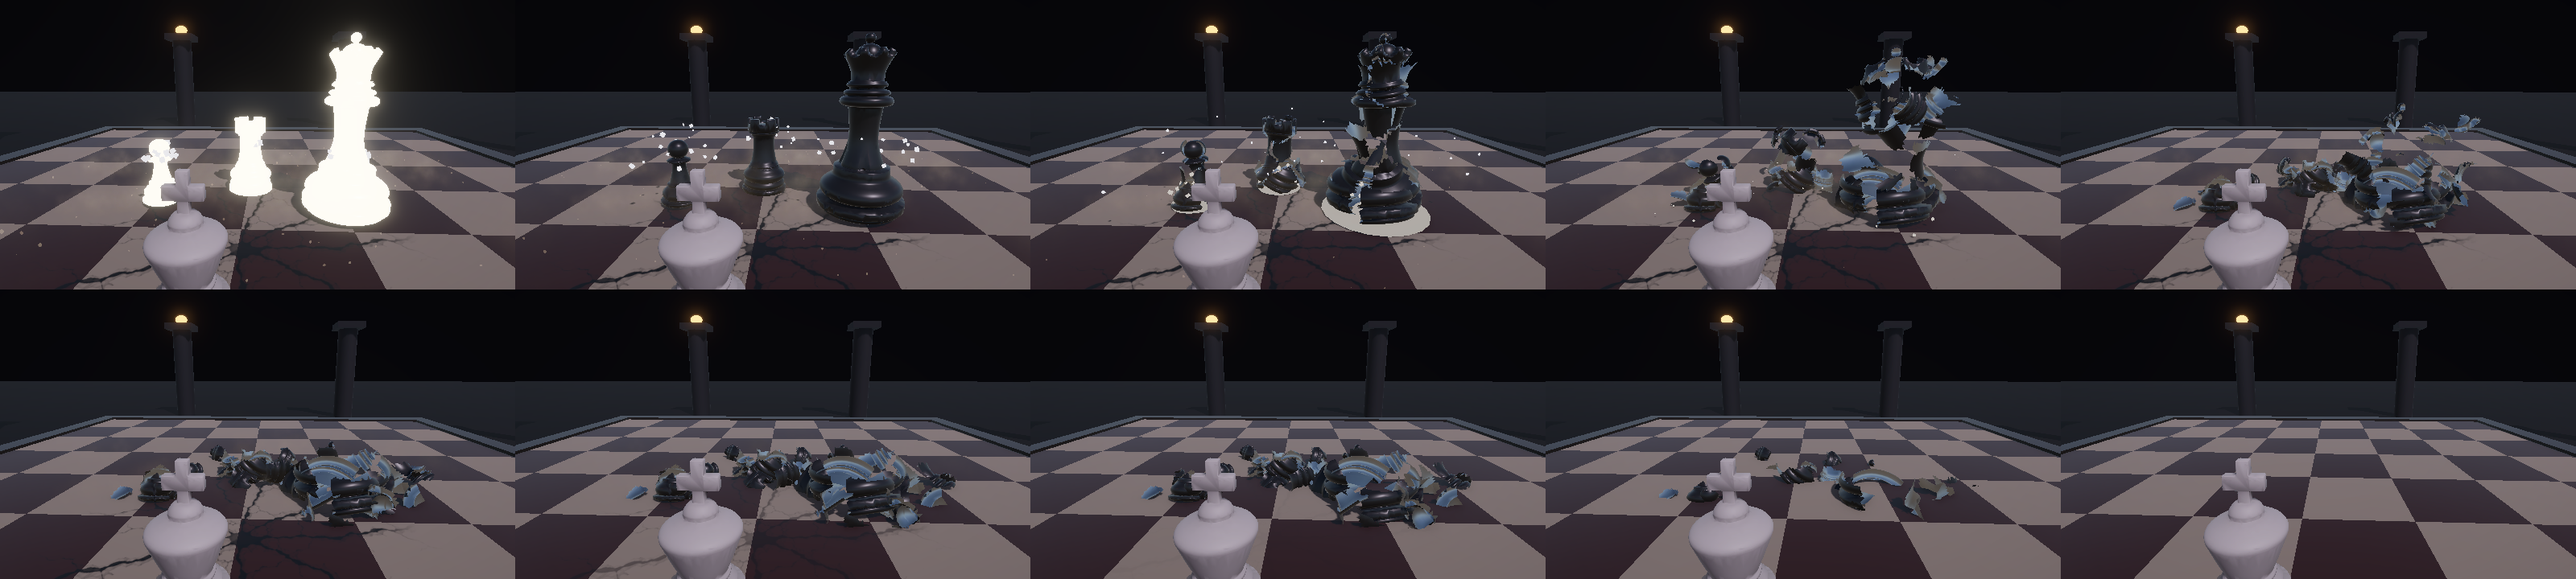
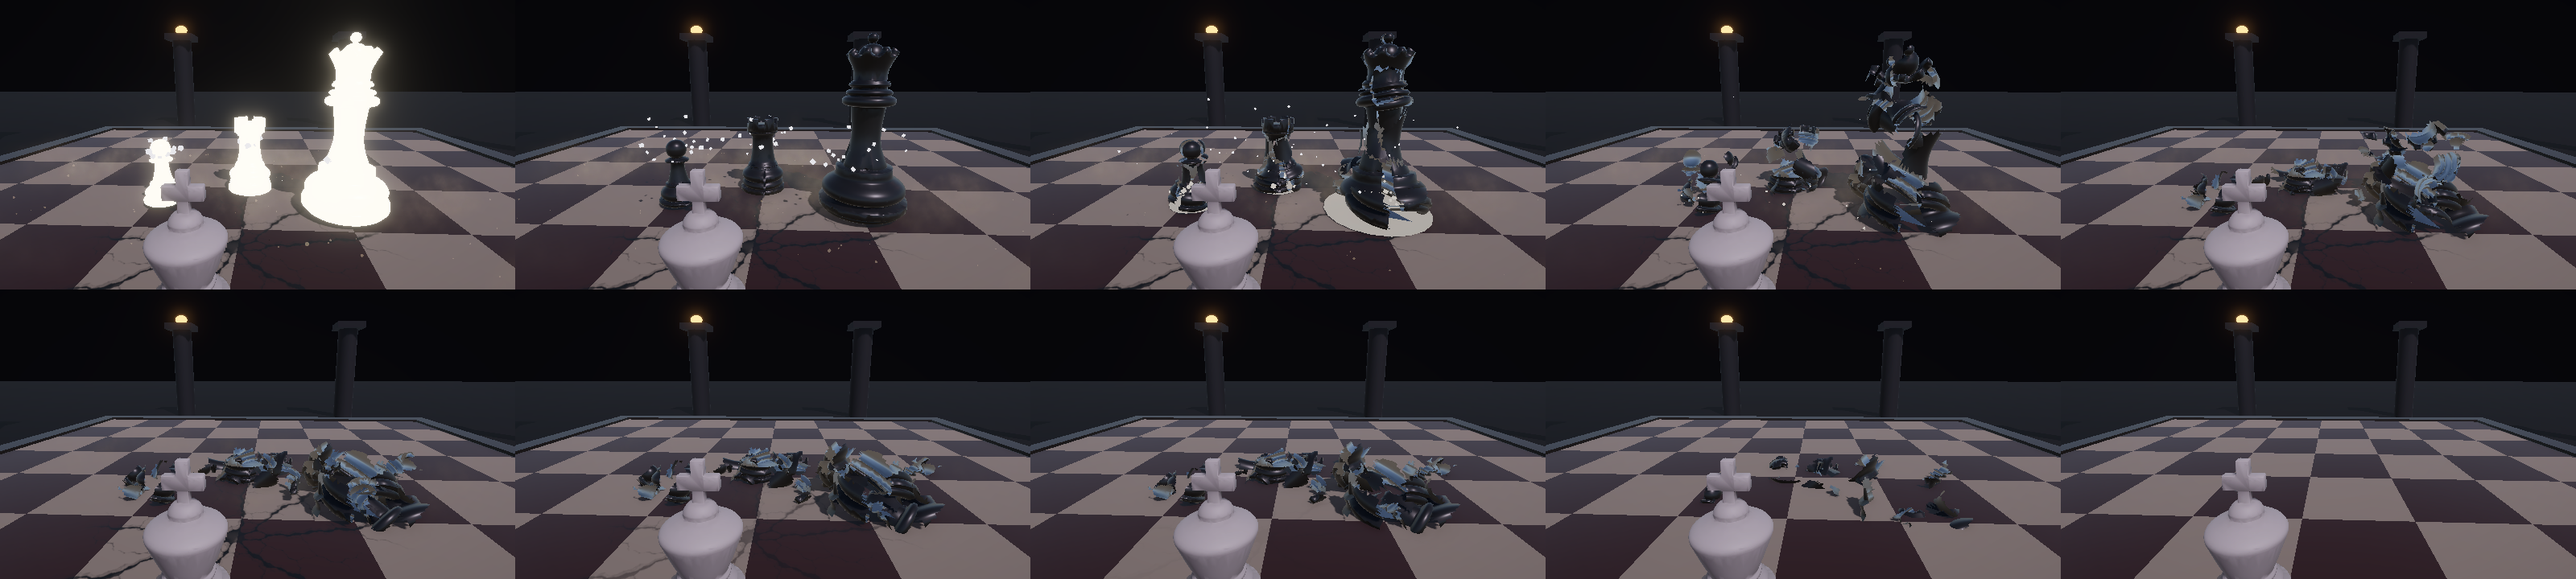
Precise auto-aim, heavy launcher, roll charges under the King
- Auto-aim faces the hit pieces squarely (centred score, player aim only
  a faint tie-break) so 1v1 attacks look straight at the enemy
- Meteor Stomp (RMB) force-launches non-boss pieces and keeps them down
  longer after landing; no ground range marker on hit 4 / heavy
- Royal Throw spins in a random direction each time
- Vulnerable indicator white
- HUD: roll diamonds float under the King; HP/stamina/flasks ~25% larger

diff --git a/Assets/Scripts/Core/Hud.cs b/Assets/Scripts/Core/Hud.cs
@@ -6,7 +6,7 @@ namespace KingLastPiece
     public class Hud : MonoBehaviour
     {
         GUIStyle big, mid, small, label;
-        float hpTrail = 100f, bossTrail = 1f;
+        float hpTrail = 100f, bossTrail = 1f, rollAlpha = 1f;
         float scale;
 
         static readonly Color Gold = new Color(0.95f, 0.78f, 0.35f);
@@ -58,6 +58,7 @@ namespace KingLastPiece
             }
 
             DrawPlayerBars(g.Player);
+            DrawRollCharges(g);
             DrawEnemyBars(g);
             DrawBossBar(g);
             DrawLockMarker(g);
@@ -76,26 +77,27 @@ namespace KingLastPiece
 
         void DrawPlayerBars(PlayerController p)
         {
+            float u = scale * 1.25f;  // a touch larger than the base HUD scale so it reads mid-fight
             float x = 32 * scale, y = 28 * scale;
-            float panelW = 520 * scale, panelH = 150 * scale;
+            float panelW = 500 * u, panelH = 118 * u;
 
             // Backing plate with a gold hairline, and a chess-tile emblem with the King's crown.
             Fill(new Rect(x - 12 * scale, y - 12 * scale, panelW, panelH), new Color(0f, 0f, 0f, 0.45f));
             Fill(new Rect(x - 12 * scale, y - 12 * scale, panelW, 2 * scale), new Color(Gold.r, Gold.g, Gold.b, 0.6f));
-            float em = 66 * scale;
+            float em = 66 * u;
             DrawEmblem(new Rect(x, y, em, em));
 
-            float bx = x + em + 14 * scale;
+            float bx = x + em + 14 * u;
 
             // Health.
-            float w = 400 * scale, h = 20 * scale;
-            Gauge(new Rect(bx, y + 2 * scale, w, h), p.Health / p.MaxHealth, hpTrail / p.MaxHealth,
+            float w = 380 * u, h = 20 * u;
+            Gauge(new Rect(bx, y + 2 * u, w, h), p.Health / p.MaxHealth, hpTrail / p.MaxHealth,
                 new Color(0.62f, 0.07f, 0.06f), new Color(0.95f, 0.3f, 0.22f));
-            SmallText(new Rect(bx + 8 * scale, y + 2 * scale, w - 16 * scale, h), $"{Mathf.CeilToInt(p.Health)} / {Mathf.RoundToInt(p.MaxHealth)}",
-                TextAnchor.MiddleRight);
+            SmallText(new Rect(bx + 8 * u, y + 2 * u, w - 16 * u, h), $"{Mathf.CeilToInt(p.Health)} / {Mathf.RoundToInt(p.MaxHealth)}",
+                TextAnchor.MiddleRight, 15);
 
             // Stamina (pulses amber when nearly empty).
-            float sy = y + h + 10 * scale, sw = 330 * scale, sh = 12 * scale;
+            float sy = y + h + 10 * u, sw = 320 * u, sh = 13 * u;
             float st = p.Stamina / PlayerController.MaxStamina;
             bool low = st < 0.25f;
             float pulse = low ? 0.5f + 0.5f * Mathf.Sin(Time.unscaledTime * 10f) : 0f;
@@ -103,24 +105,41 @@ namespace KingLastPiece
             Color stHi = Color.Lerp(new Color(0.45f, 0.9f, 0.5f), new Color(1f, 0.8f, 0.35f), pulse);
             Gauge(new Rect(bx, sy, sw, sh), st, st, stMain, stHi);
 
-            // Roll charges: gold-rimmed diamonds; a recharging one grows from the middle.
-            float ry = sy + sh + 16 * scale, ds = 12 * scale;
-            SmallText(new Rect(bx, ry - 9 * scale, 60 * scale, 18 * scale), "ROLL", TextAnchor.MiddleLeft);
+            // Royal Flasks: little gold vials.
+            float fy = sy + sh + 8 * u;
+            for (int i = 0; i < PlayerController.MaxFlasks; i++)
+                DrawVial(new Rect(bx + i * 28 * u, fy, 19 * u, 30 * u), i < p.Flasks);
+            SmallText(new Rect(bx + PlayerController.MaxFlasks * 28 * u + 4 * u, fy + 6 * u, 120 * u, 22 * u),
+                $"FLASK  x{p.Flasks}", TextAnchor.MiddleLeft, 15);
+        }
+
+        /// <summary>
+        /// Roll charges float just under the King so they stay in view mid-fight: gold-rimmed diamonds, a recharging
+        /// one grows from the middle. They fade back when all charges are full and the King isn't fighting.
+        /// </summary>
+        void DrawRollCharges(GameManager g)
+        {
+            var p = g.Player;
+            if (p.IsDead) return;
+            Vector3 sp = g.Rig.Cam.WorldToScreenPoint(p.transform.position);
+            if (sp.z < 0f) return;
+            bool full = p.DodgeCharges >= PlayerController.MaxDodges;
+            float target = full ? 0.45f : 1f;
+            rollAlpha = Mathf.MoveTowards(rollAlpha, target, Time.unscaledDeltaTime * 3f);
+
+            float ds = 9 * scale, gap = 24 * scale;
+            float cx = sp.x - (PlayerController.MaxDodges - 1) * gap / 2f;
+            float cy = Screen.height - sp.y + 34 * scale;
             for (int i = 0; i < PlayerController.MaxDodges; i++)
             {
-                var c = new Vector2(bx + 64 * scale + i * 26 * scale, ry);
-                Diamond(c, ds + 3 * scale, new Color(Gold.r, Gold.g, Gold.b, 0.9f));
-                Diamond(c, ds, new Color(0.04f, 0.05f, 0.08f, 0.95f));
-                if (i < p.DodgeCharges) Diamond(c, ds - 2 * scale, new Color(0.55f, 0.88f, 1f));
-                else if (i == p.DodgeCharges) Diamond(c, (ds - 2 * scale) * p.DodgeRechargeProgress, new Color(0.3f, 0.5f, 0.65f));
+                var c = new Vector2(cx + i * gap, cy);
+                Diamond(c, ds + 3 * scale, new Color(0f, 0f, 0f, 0.6f * rollAlpha));
+                Diamond(c, ds + 2 * scale, new Color(Gold.r, Gold.g, Gold.b, 0.95f * rollAlpha));
+                Diamond(c, ds, new Color(0.04f, 0.05f, 0.08f, 0.95f * rollAlpha));
+                if (i < p.DodgeCharges) Diamond(c, ds - 2 * scale, new Color(0.55f, 0.88f, 1f, rollAlpha));
+                else if (i == p.DodgeCharges)
+                    Diamond(c, (ds - 2 * scale) * p.DodgeRechargeProgress, new Color(0.3f, 0.5f, 0.65f, rollAlpha));
             }
-
-            // Royal Flasks: little gold vials.
-            float fx = bx + 160 * scale, fy = ry - 13 * scale;
-            for (int i = 0; i < PlayerController.MaxFlasks; i++)
-                DrawVial(new Rect(fx + i * 24 * scale, fy, 16 * scale, 26 * scale), i < p.Flasks);
-            SmallText(new Rect(fx + PlayerController.MaxFlasks * 24 * scale + 4 * scale, ry - 9 * scale, 120 * scale, 18 * scale),
-                "FLASK", TextAnchor.MiddleLeft);
         }
 
         // ---------------------------------------------------------------- styled primitives
@@ -197,9 +216,9 @@ namespace KingLastPiece
             Fill(new Rect(liquid.x, liquid.y, liquid.width * 0.35f, liquid.height), new Color(1f, 0.9f, 0.6f, 0.6f));
         }
 
-        void SmallText(Rect r, string text, TextAnchor anchor)
+        void SmallText(Rect r, string text, TextAnchor anchor, int size = 13)
         {
-            var st = new GUIStyle(label) { fontSize = Mathf.RoundToInt(13 * scale), alignment = anchor };
+            var st = new GUIStyle(label) { fontSize = Mathf.RoundToInt(size * scale), alignment = anchor };
             Text(r, text, st, new Color(0.95f, 0.92f, 0.85f, 0.95f));
         }
 

diff --git a/Assets/Scripts/Combat/PlayerController.cs b/Assets/Scripts/Combat/PlayerController.cs
@@ -89,7 +89,7 @@ namespace KingLastPiece
         readonly List<EnemyBase> assistNearby = new List<EnemyBase>();
         readonly List<Vector3> assistCandidates = new List<Vector3>();
         Vector3 counterFrom, counterTo;
-        float counterAngle0;
+        float counterAngle0, counterSpin = 1f;  // spin: +1 clockwise, -1 counter-clockwise (random per throw)
         bool counterReleased;
         readonly HashSet<EnemyBase> counterHits = new HashSet<EnemyBase>();
 
@@ -466,8 +466,8 @@ namespace KingLastPiece
 
         /// <summary>
         /// Picks the facing that makes the current attack hit the most pieces in assist range.
-        /// Candidates: toward each nearby piece, between every pair of them, and the player's own aim
-        /// (which only breaks ties). Returns false when nothing is close enough to assist.
+        /// Candidates: toward each nearby piece and between every pair of them; the player's own aim
+        /// only breaks ties. Returns false when nothing is close enough to assist.
         /// </summary>
         bool TryFindAssistDirection(Vector3 preferred, out Vector3 best)
         {
@@ -481,7 +481,6 @@ namespace KingLastPiece
 
             assistCandidates.Clear();
             preferred.y = 0f;
-            assistCandidates.Add(preferred.normalized);
             for (int i = 0; i < assistNearby.Count; i++)
             {
                 Vector3 a = (assistNearby[i].FlatPos - FlatPos).normalized;
@@ -499,9 +498,16 @@ namespace KingLastPiece
             {
                 if (c.sqrMagnitude < 0.01f) continue;
                 int hits = 0;
+                float off = 0f;
                 foreach (var e in Game.Enemies)
-                    if (e != null && !e.IsDead && e.Targetable && atk.WouldHit(FlatPos, c, e.FlatPos, e.Radius)) hits++;
-                float score = hits * 1000f - Vector3.Angle(c, preferred);
+                    if (e != null && !e.IsDead && e.Targetable && atk.WouldHit(FlatPos, c, e.FlatPos, e.Radius))
+                    {
+                        hits++;
+                        off += Vector3.Angle(c, e.FlatPos - FlatPos);
+                    }
+                // Most pieces first; then the facing most centred on the pieces it hits (so a lone piece is faced
+                // squarely), with the player's own aim only as a faint tie-break.
+                float score = hits * 1000f - (hits > 0 ? off / hits : 0f) - 0.02f * Vector3.Angle(c, preferred);
                 if (score > bestScore) { bestScore = score; bestHits = hits; best = c; }
             }
 
@@ -636,6 +642,7 @@ namespace KingLastPiece
                     Game.ReportDamage(e, w.damage);
                     Vector3 toE = (e.FlatPos - FlatPos).normalized;
                     Vfx.Hit(e.transform.position + Vector3.up * 1.0f - toE * e.Radius, toE, atk.heavy);
+                    if (w.launch) e.ForceLaunch(transform.position);
                 }
             }
             if (landed)
@@ -818,6 +825,7 @@ namespace KingLastPiece
             counterFrom = FlatPos;
             counterTo = counterTarget.FlatPos - to.normalized * SwingRadius;
             counterAngle0 = Vector3.SignedAngle(Vector3.forward, to, Vector3.up);
+            counterSpin = Random.value < 0.5f ? 1f : -1f;
             transform.rotation = Quaternion.LookRotation(to);
             Enter(State.Counter);
         }
@@ -847,7 +855,7 @@ namespace KingLastPiece
             {
                 // Swing the piece around twice, accelerating, hitting everything it sweeps through.
                 float p = (t - CounterApproach) / (CounterRelease - CounterApproach);
-                float angle = counterAngle0 + 720f * Mathf.Pow(p, 1.7f);
+                float angle = counterAngle0 + counterSpin * 720f * Mathf.Pow(p, 1.7f);
                 Vector3 dir = Quaternion.Euler(0f, angle, 0f) * Vector3.forward;
                 Vector3 piecePos = FlatPos + dir * SwingRadius;
                 counterTarget.SetGrabbedPose(piecePos, dir, 75f, 0.7f + 0.3f * Mathf.Sin(p * Mathf.PI));

diff --git a/Assets/Scripts/Combat/EnemyBase.cs b/Assets/Scripts/Combat/EnemyBase.cs
@@ -579,8 +579,9 @@ namespace KingLastPiece
 
         // ---------------------------------------------------------------- stagger reactions
 
-        static readonly Color VulnerableColor = new Color(1f, 0.85f, 0.25f);
-        const float AirGravity = 22f, AirLiftFalloff = 0.6f, GetupLie = 0.45f, GetupRise = 0.4f;
+        static readonly Color VulnerableColor = new Color(1f, 0.98f, 0.94f);
+        const float AirGravity = 22f, AirLiftFalloff = 0.6f, GetupLie = 0.45f, GetupRise = 0.4f, ForcedLaunchLie = 0.9f;
+        float bonusLie;  // extra time lying down after a forced launch
 
         /// <summary>Cancels whatever the piece was doing (attack, telegraph, glow) — frees its attack token too.</summary>
         void CancelAction()
@@ -596,6 +597,18 @@ namespace KingLastPiece
             Vector3 away = FlatPos - new Vector3(source.x, 0f, source.z);
             flinchPush = away.sqrMagnitude > 0.001f ? away.normalized * 2.5f : Vector3.zero;
             Enter(EState.Stagger);
+        }
+
+        /// <summary>
+        /// Heavy launcher: pops a non-boss piece into the air whatever its gauge or armor, and keeps it down a while longer
+        /// after it lands (neutralized). Bosses shrug it off.
+        /// </summary>
+        public void ForceLaunch(Vector3 source)
+        {
+            if (stagger == null || IsDead) return;
+            if (state == EState.Spawning || state == EState.Grabbed || state == EState.Launched) return;
+            bonusLie = ForcedLaunchLie;
+            if (state != EState.Airborne) LaunchUp(source);
         }
 
         /// <summary>Knock the piece into the air. Each further air hit lifts less (no infinite juggles).</summary>
@@ -645,10 +658,12 @@ namespace KingLastPiece
         void UpdateGetup()
         {
             float t = stateTime;
-            float lie = t < GetupLie ? 1f : 1f - PoseTrack.Curve(Ease.InOut, (t - GetupLie) / GetupRise);
+            float lieTime = GetupLie + bonusLie;
+            float lie = t < lieTime ? 1f : 1f - PoseTrack.Curve(Ease.InOut, (t - lieTime) / GetupRise);
             modelTilt = Quaternion.Euler(-85f * lie, 0f, 0f);
-            if (t >= GetupLie + GetupRise)
+            if (t >= lieTime + GetupRise)
             {
+                bonusLie = 0f;
                 stagger?.ResetGauge();
                 airHits = 0;
                 Enter(EState.Move);
@@ -666,7 +681,7 @@ namespace KingLastPiece
             Game.Rig.Shake(0.15f);
         }
 
-        /// <summary>While Vulnerable: dizzy wobble and golden sparks circling the head.</summary>
+        /// <summary>While Vulnerable: dizzy wobble and white sparks circling the head.</summary>
         void AnimateVulnerable(float dt)
         {
             float w = Time.time * 9f;

diff --git a/Assets/Scripts/Combat/AttackStyles.cs b/Assets/Scripts/Combat/AttackStyles.cs
@@ -108,6 +108,7 @@ namespace KingLastPiece
         public bool sweep;             // Arc only: hits land progressively from sweepFrom to sweepTo (degrees, + = right)
         public float sweepFrom, sweepTo;
         public bool slash;             // draw a ground crescent along the sweep (shows the real reach)
+        public bool launch;            // knock non-boss pieces airborne regardless of their stagger gauge (and armor)
         public float kick;             // camera zoom punch on window start
         public bool sparkTrail;        // spray sparks from the crown while the window is active
         // Authored slash effect (NamuFX) played when the window starts, aligned with the King's facing.
@@ -366,7 +367,7 @@ namespace KingLastPiece
                 {
                     start = 0.52f, end = 0.57f, shape = HitShape.Circle, range = 3.2f, damage = 20f, poise = 32f,
                     hitStop = 0.09f, shake = 0.45f, impact = true, kick = 0.6f,
-                    dust = true, slash = true, sweepFrom = 0f, sweepTo = 360f,
+                    dust = true,
                 },
             },
             moves = new[] { new MoveSeg(0.14f, 0.52f, 1.6f, Ease.InOut) },
@@ -403,7 +404,7 @@ namespace KingLastPiece
             {
                 new HitWindow { start = 0.82f, end = 0.9f, shape = HitShape.Circle, range = 4.3f, damage = 46f, poise = 65f,
                     hitStop = 0.12f, shake = 0.65f, impact = true, kick = 1f,
-                    dust = true, slash = true, sweepFrom = 0f, sweepTo = 360f },
+                    dust = true, launch = true },
             },
             moves = new[] { new MoveSeg(0.42f, 0.82f, 3.0f, Ease.InOut) },
             // Top-to-bottom slash while the King somersaults down onto the board.
